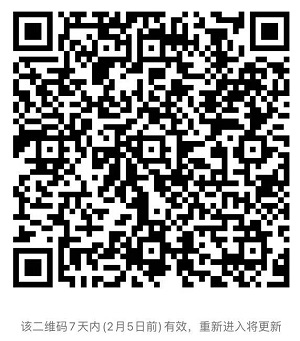
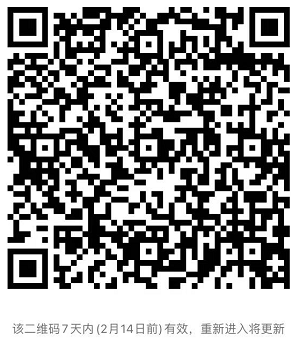
更新群二维码

diff --git a/q-a.md b/q-a.md
@@ -9,3 +9,4 @@
     - 在下载ScanNet数据集的很慢，一晚上才下载了这么几张。有大佬之前遇到过这个问题吗？求解答
 3. 请问有熟悉mega-nerf的大佬，可否指导一下如何针对自己的数据集呢？我卡在了pixSFM了。非常感谢。
 4. Real-time Neural Radiance Talking Portrait Synthesis via Audio-spatial Decomposition训练出现抖动？
+5. niceslam好牛，不知道有没有佬跑通？apartment那个数据集有点问题，其他没问题？

diff --git a/neuman/5-neuman自定义数据集之预处理.md b/neuman/5-neuman自定义数据集之预处理.md
@@ -56,9 +56,12 @@ cd ..
 ```
  
  ### 二. 默认的预处理方法
+ 1. 创建docker容器，准备预处理的环境、代码。
+ 2. 在docker里面运行gen_run.py生成run.sh，然后运行run.sh
  ```
 python gen_run.py --video /data/my_video.mov 生成run.sh，然后运行run.sh。
 ```
+3. 可视化检查数据
  
  ### 三. run.sh的预处理流程 一共10步
  1. 用save_video_frames.py从视频获取帧。 输入到messi\raw_720p

diff --git a/README.md b/README.md
@@ -60,6 +60,9 @@
 1. Plenoctree
 1. Plenoxels：即使没有神经网络，从头训练一个辐射场（radiance field）也能达到 NeRF 的生成质量，而且优化速度提升了两个数量级。
 1. Neus
+1. RobustNeRF
+    - 项目地址：https://robustnerf.github.io/public/
+    - 文章地址：https://arxiv.org/pdf/2302.00833.pdf
 1. TensoRF-张量辐射场
 1. KeypointNeRF
 1. point-NeRF

diff --git a/digital-human/smpl人体模型概述.md b/digital-human/smpl人体模型概述.md
@@ -1,0 +1,8 @@
+
+SMPL: https://smpl.is.tue.mpg.de/
+MANO & SMPL+H: http://mano.is.tue.mpg.de/ 扩展到手
+SMPL-X and SMPLify-X: https://smpl-x.is.tue.mpg.de/ 扩展到手和脸
+
+https://smplify.is.tue.mpg.de/download.php
+
+https://github.com/vchoutas/smplify-x
